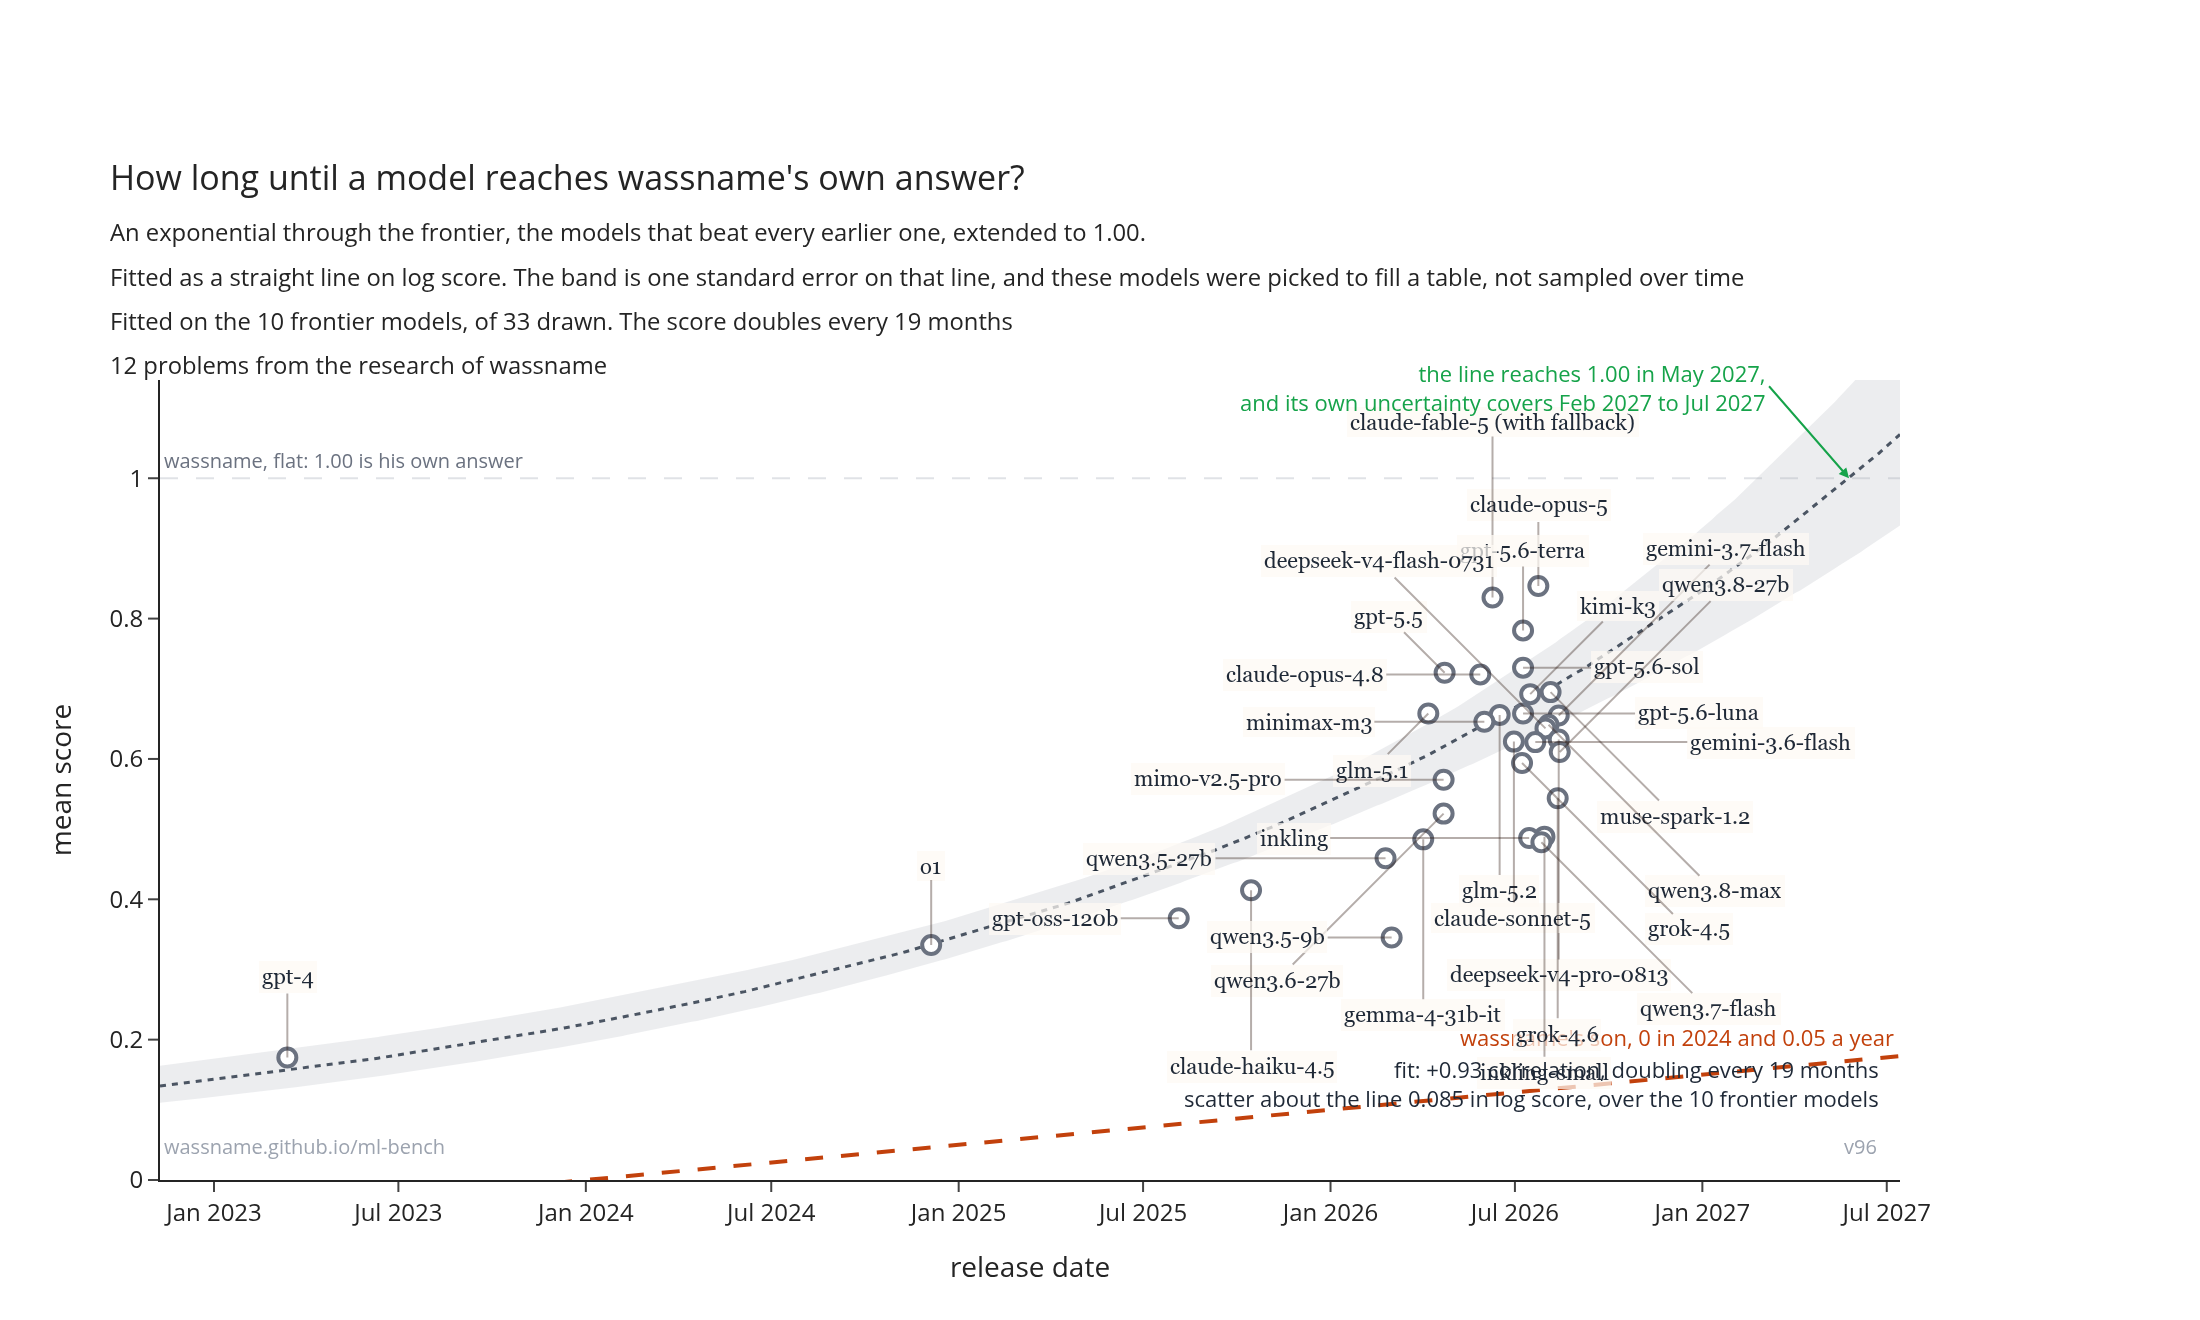
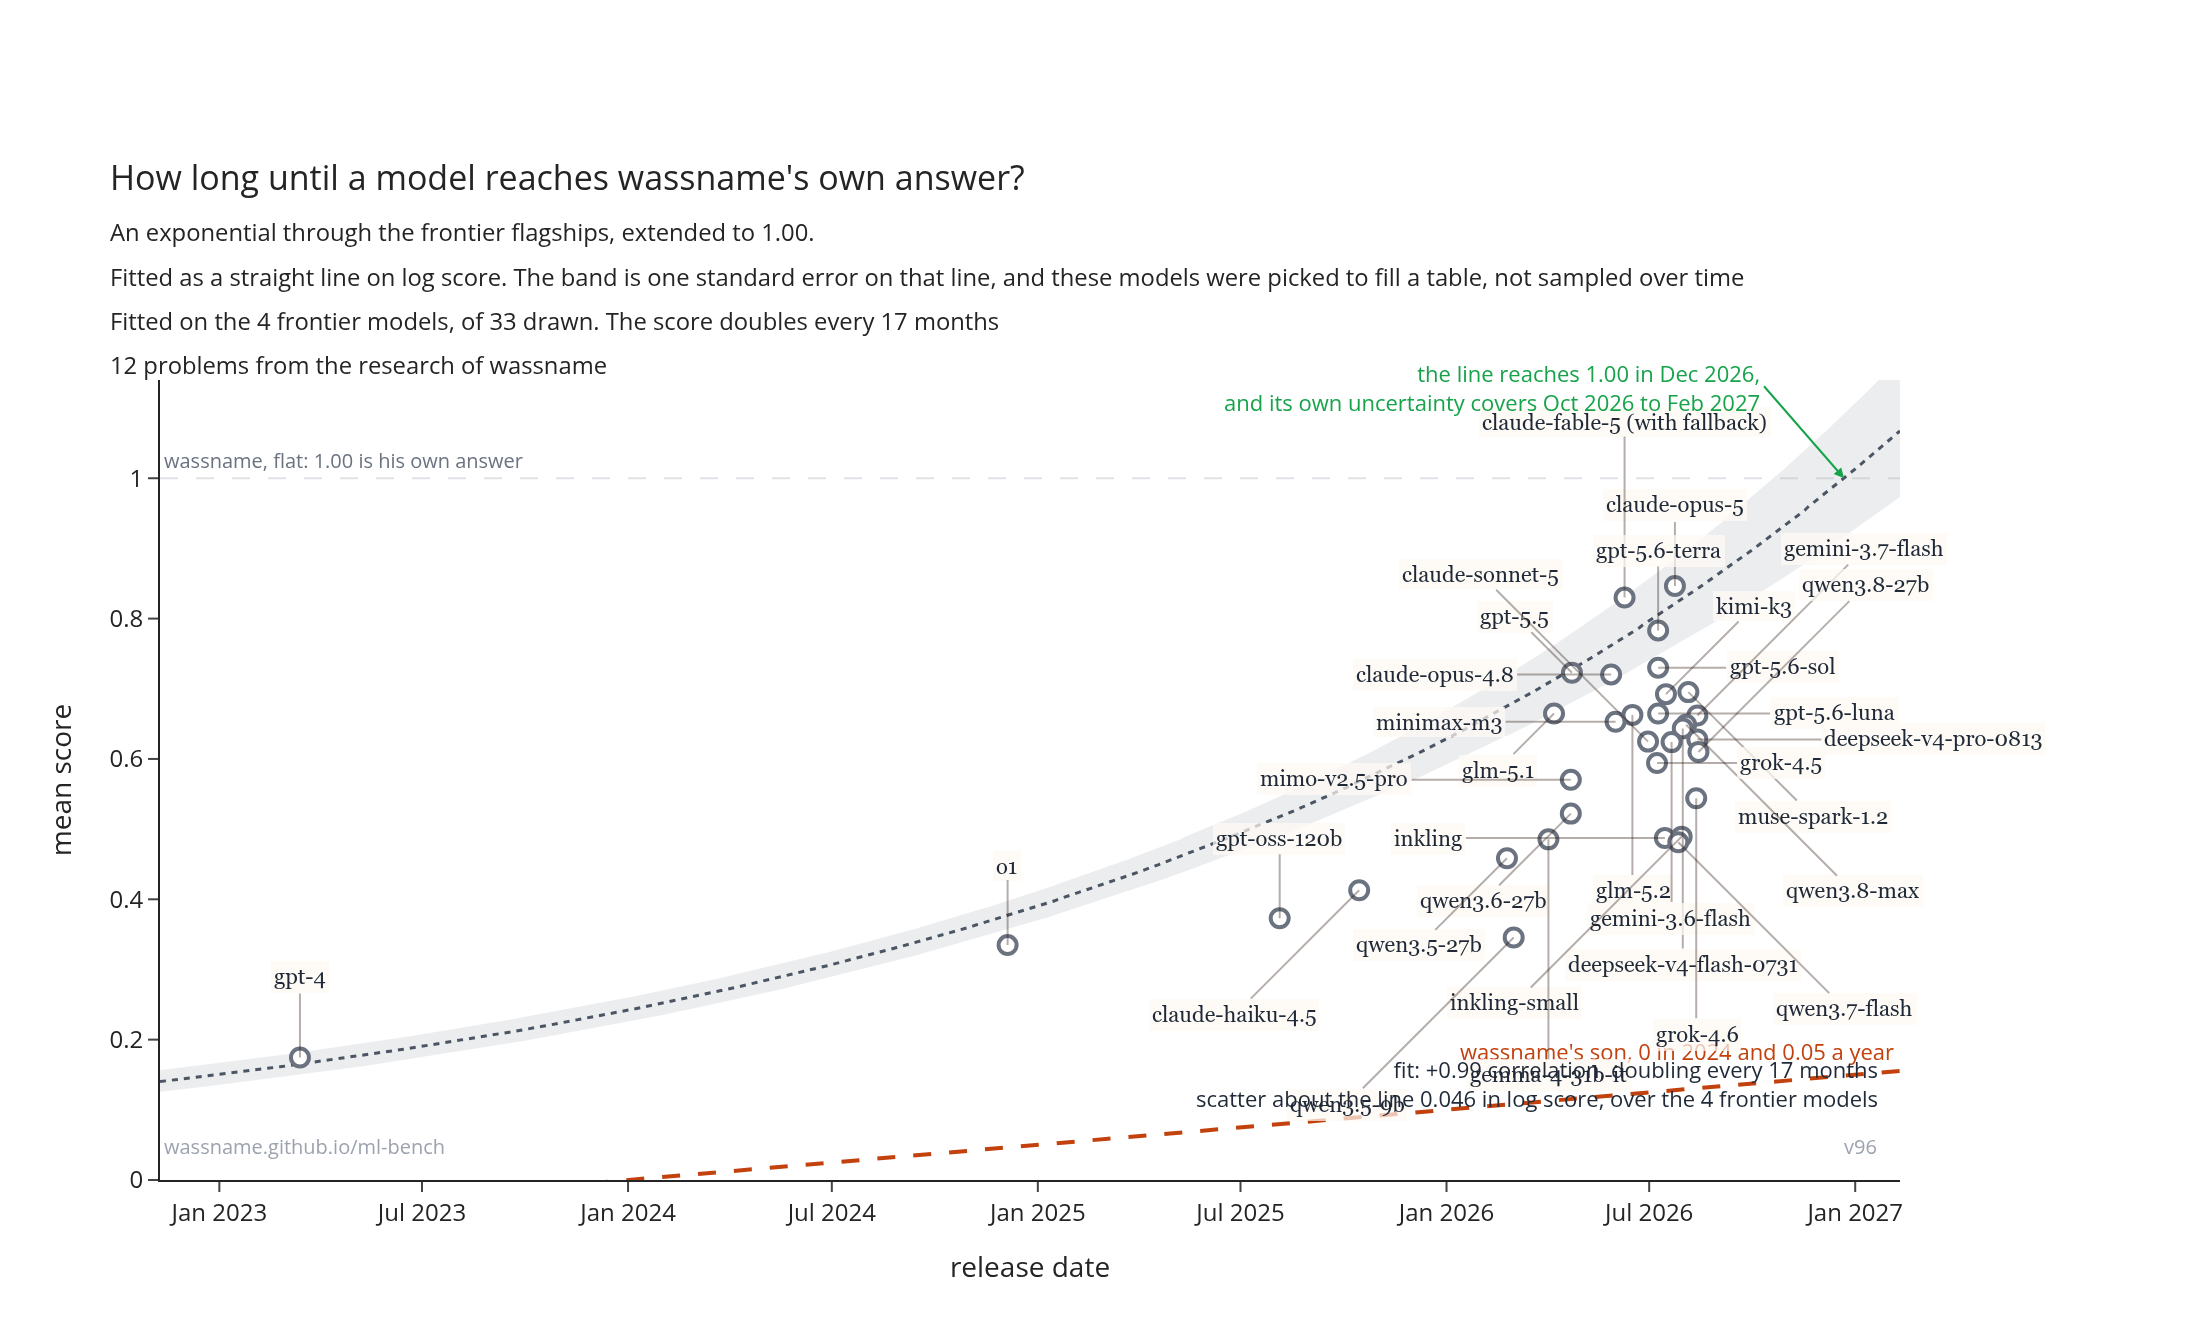
chart: fit the four frontier flagships, read from the stored fit

diff --git a/index.html b/index.html
@@ -150,7 +150,7 @@ const AXES = {
                 fmt: v => { const d = asDate(v);
                             return MONTHS[d.getUTCMonth()] + " " + d.getUTCFullYear(); },
                 fit: "released", x: r => r.released && ord(r.released),
-                note: "an exponential through the frontier, extended, and these models were picked "
+                note: "an exponential through the frontier flagships, extended, and these were picked "
                       + "to fill a table" },
 };
 
@@ -213,9 +213,12 @@ function place(cx, cy, w, h, taken) {
 // `sd`, `n`, `mean` and `sxx`, and the date axis needs where the line reaches 1.00. Null under 3
 // points, since 2 points fit exactly and would draw a band of zero width.
 function refit(rows, ax) {
-  // The date axis fits the frontier, the models that beat every earlier one, not every model, the
-  // same models bench.py fits into timeline.png. On log score, so the line is an exponential.
-  if (ax.best) rows = frontier(rows, ax.x);
+  // The date axis fits wassname's frontier models, not every model. The list is bench.py's, read
+  // from the stored fit, so there is one list and not two. On log score, so it is an exponential.
+  if (ax.best) {
+    const front = new Set(data.fits[ax.fit].models);
+    rows = rows.filter(r => front.has(r.model));
+  }
   if (rows.length < 3) return null;
   const log = !!ax.best;
   const xs = rows.map(r => ax.x(r)), ys = rows.map(r => log ? Math.log10(r.score) : r.score);
@@ -422,7 +425,7 @@ function draw(data, x, labs, svg) {
     Object.assign(el("text", { class: "err-text", x: W - PAD.r - 4, y: H - PAD.b - 26,
                                "text-anchor": "end" }, svg),
                   { textContent: `r ${fit.r.toFixed(2)}, ` +
-                                 (ax.best ? `${fit.n} models on the frontier`
+                                 (ax.best ? `${fit.n} frontier flagships`
                                           : `${fit.n} models`) +
                                  `, models scatter ±${fit.sd.toFixed(3)} about the line` +
                                  (fit.log ? " in log score" : "") });

diff --git a/bench.py b/bench.py
@@ -2105,22 +2105,18 @@ def _doubling_months(fit: dict) -> float:
     return 12 * math.log10(2) / (fit["slope"] * 365.25)
 
 
-def _running_best(table: list[dict]) -> list[tuple[int, float, str]]:
-    """The frontier: a model is kept only if it beats every model released before it.
+# The models this chart fits, chosen by wassname. A running best computed from the table is not
+# the same thing: a weak model released in a quiet month sets a record here and joins the fit, which
+# put gemma-4-31b-it and glm-5.1 on the frontier and pulled the line off the flagships.
+FRONTIER = ["gpt-4", "o1", "gpt-5.5", "claude-fable-5"]
 
-    This is what the chart fits, at wassname's asking. Each point is a record, so the line reads as
-    the best available on a date rather than the average of what happened to be tested.
-    """
-    pts = sorted((date.fromisoformat(RELEASED[name]).toordinal(), row["score"], name)
-                 for row in table
-                 for name in [row["model"].split(" (")[0]]
-                 if row["score"] is not None and name in RELEASED)
-    front, best = [], -math.inf
-    for day, score, name in pts:
-        if score > best:
-            best = score
-            front.append((day, score, name))
-    return front
+
+def _running_best(table: list[dict]) -> list[tuple[int, float, str]]:
+    """wassname's frontier models, in release order, dropping any that has no score yet."""
+    return sorted((date.fromisoformat(RELEASED[name]).toordinal(), row["score"], name)
+                  for row in table
+                  for name in [row["model"].split(" (")[0]]
+                  if row["score"] is not None and name in FRONTIER)
 
 
 def _frontier(table: list[dict], x: str) -> set[str]:
@@ -2340,8 +2336,8 @@ _VS_AXES = {
                  "title": "How long until a model reaches wassname's own answer?",
                  # The caveat rides the chart, not only the page: a png gets screenshotted alone,
                  # and this one names a year, which reads as a forecast unless the chart says no.
-                 "subtitle": "An exponential through the frontier, the models that beat every "
-                             "earlier one, extended to 1.00.<br>Fitted as a straight line on log "
+                 "subtitle": "An exponential through the frontier flagships, extended to 1.00."
+                             "<br>Fitted as a straight line on log "
                              "score. The band is one standard error on that line, and these models "
                              "were picked to fill a table, not sampled over time"},
 }
